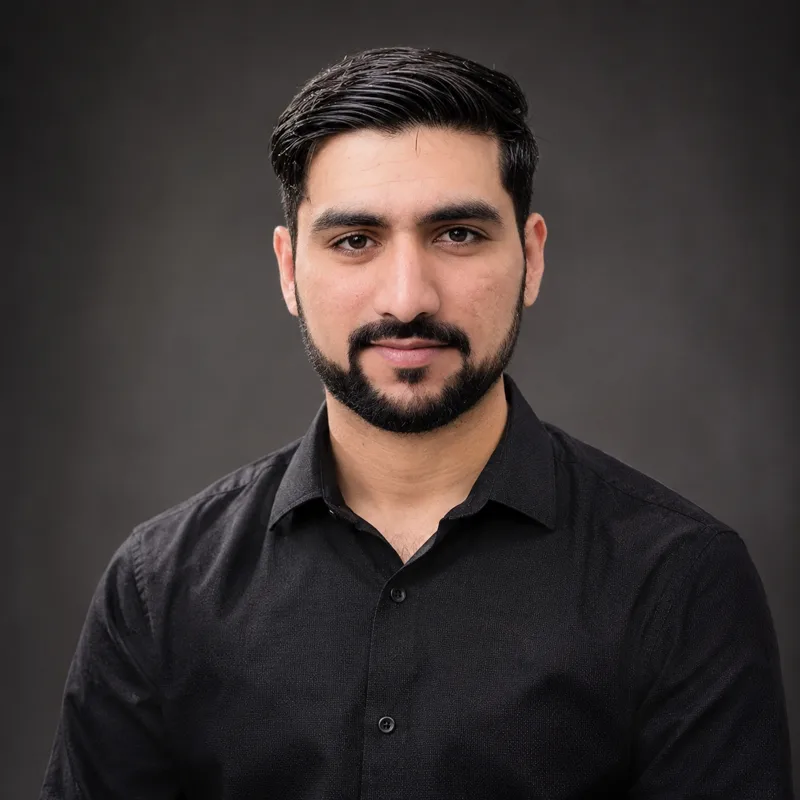
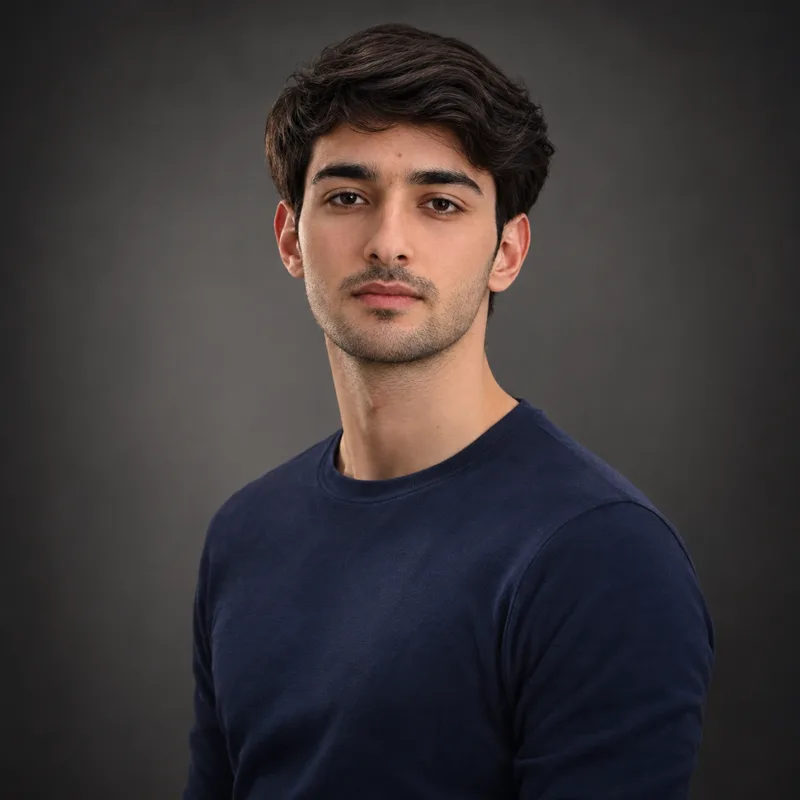
About: new Basit photo, swap Thomas/Johnny photos, add Zohaib

diff --git a/components/pages/about.ts b/components/pages/about.ts
@@ -55,7 +55,7 @@ export const HTML = `<svg width="0" height="0" style="position:absolute" aria-hi
   </div>
 
   <p class="hero__lede">
-    <strong>Nine people</strong> who take real estate marketing personally, not one more logo in an agency roster.
+    <strong>Ten people</strong> who take real estate marketing personally, not one more logo in an agency roster.
   </p>
 
   <div class="hero__acts">
@@ -77,7 +77,7 @@ export const HTML = `<svg width="0" height="0" style="position:absolute" aria-hi
       <div class="story__facts" data-rise>
         <span>Founded 2019</span>
         <span>Los Angeles, CA</span>
-        <span>Team of 9</span>
+        <span>Team of 10</span>
         <span>Real Estate Specialists</span>
       </div>
     </div>
@@ -135,7 +135,7 @@ export const HTML = `<svg width="0" height="0" style="position:absolute" aria-hi
     <div class="sec-head">
       <div>
         <span class="eyebrow" data-rise>The People</span>
-        <h2 class="h2" data-rise>Nine people, one studio.</h2>
+        <h2 class="h2" data-rise>Ten people, one studio.</h2>
       </div>
       <p class="lede" data-rise>Every project runs through this same small group. Click anyone to read their full story.</p>
     </div>
@@ -237,6 +237,17 @@ export const HTML = `<svg width="0" height="0" style="position:absolute" aria-hi
           <span class="tm-card__nick">The Organizer</span>
           <h4 class="tm-card__name">Johnny</h4>
           <p class="tm-card__role">Creative Project Manager</p>
+        </div>
+      </div>
+
+      <div class="tm-card" data-open-team="9">
+        <div class="tm-card__frame"><img src="/images/pg/zohaib.webp" alt="Zohaib"></div>
+        <div class="tm-card__wash"></div>
+        <span class="tm-card__hint"><svg width="14" height="14" viewBox="0 0 17 10"><use href="#arw"/></svg></span>
+        <div class="tm-card__body">
+          <span class="tm-card__nick">EM Creative Studio</span>
+          <h4 class="tm-card__name">Zohaib</h4>
+          <p class="tm-card__role">Team Member</p>
         </div>
       </div>
     </div>

diff --git a/public/scripts/pages/about.js b/public/scripts/pages/about.js
@@ -119,6 +119,13 @@ const TEAM = [
     bio:"Johnny keeps creative projects on track. He turns client goals into clear plans, coordinates designers, editors and developers, and makes sure work lands on time.",
     tags:['Project Management','Creative Production','Client Communication'],
     quote:''
+  },
+  {
+    name:'Zohaib', nick:'EM Creative Studio', role:'Team Member',
+    img:'/images/pg/zohaib.webp',
+    bio:"Zohaib is part of the EM Creative Studio team, helping deliver client projects from first idea to finished work.",
+    tags:['EM Creative Studio'],
+    quote:''
   }
 ];
 
